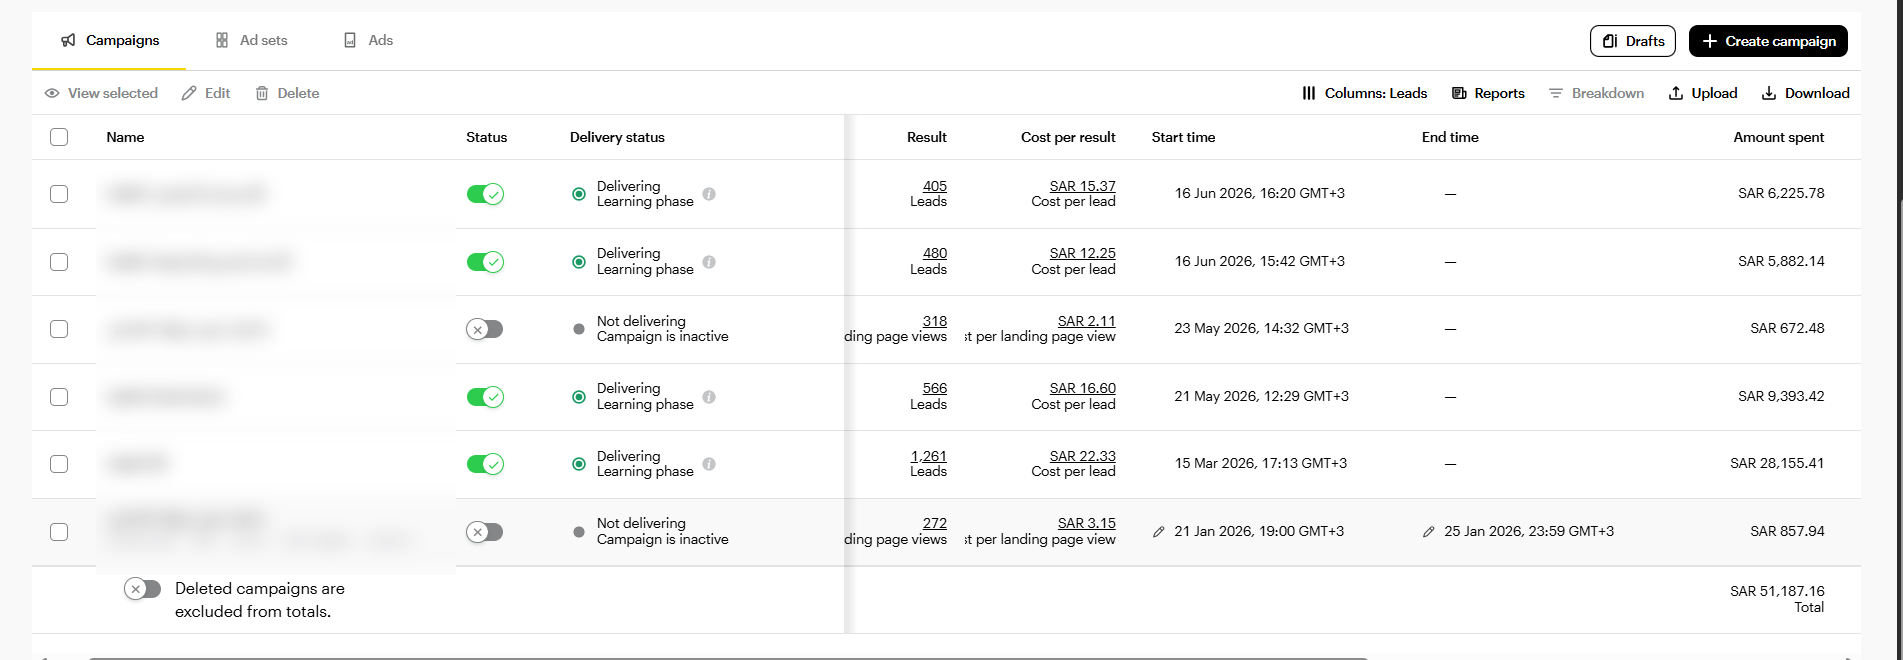
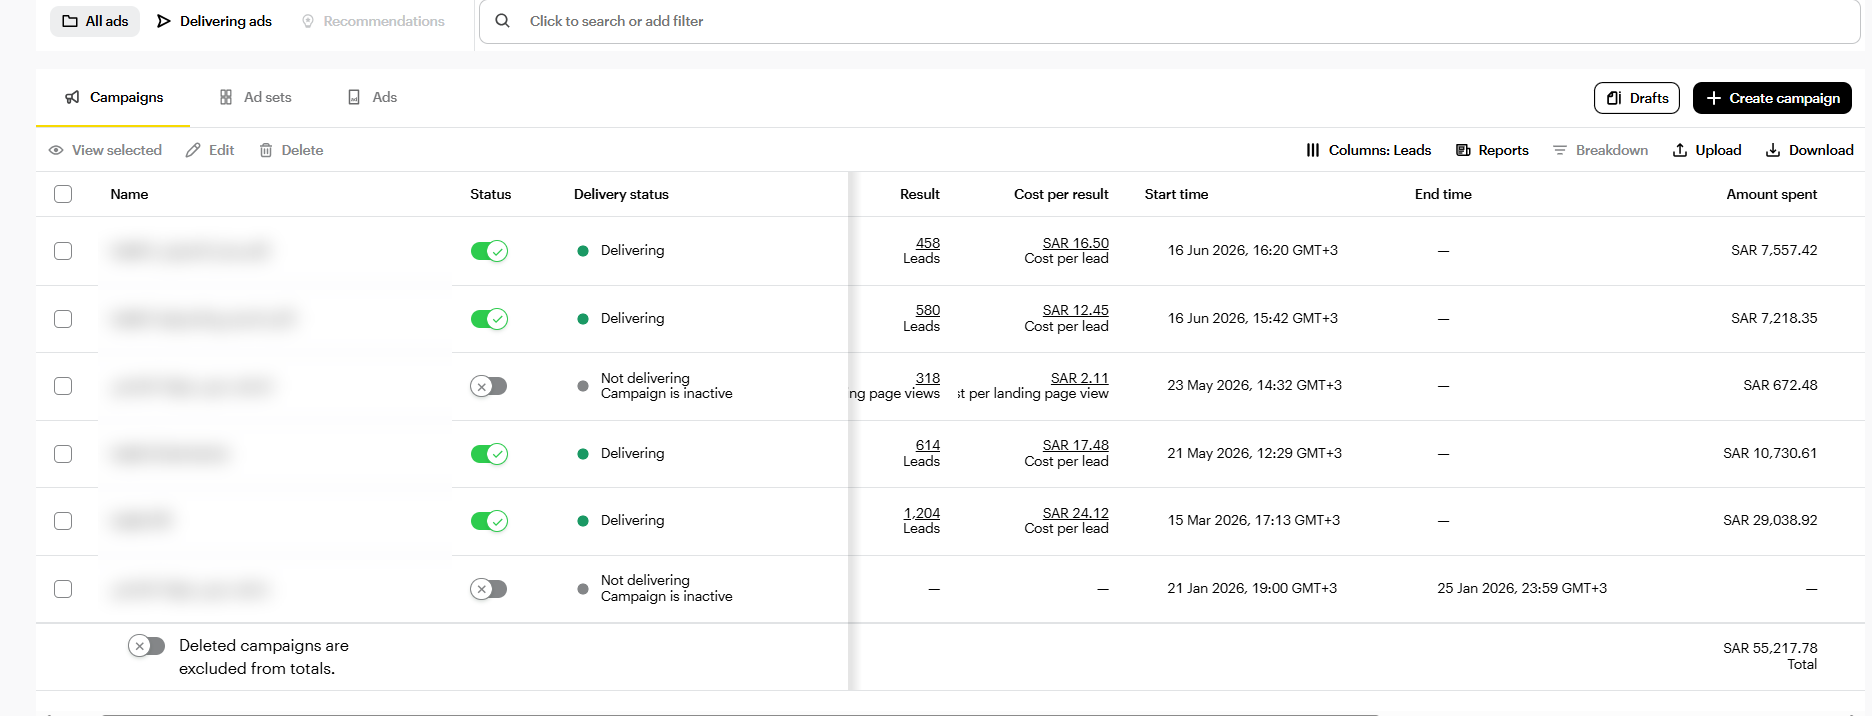
Add files via upload

diff --git a/index.html b/index.html
@@ -6,13 +6,13 @@
 
   <!-- ══════════ SEO — edit title & description here ══════════ -->
   <title>Mohamed Mahmoud — Media Buyer · Performance Marketing, KSA</title>
-  <meta name="description" content="Media buyer specializing in lead generation for the education and training sector in KSA. 25,000+ leads and 500,000+ SAR managed across Meta, Snapchat, TikTok, Google, LinkedIn & X, with 12.1x ROAS on tracked sales (May, June & August 2026).">
+  <meta name="description" content="Media buyer specializing in lead generation for the education and training sector in KSA. 29,000+ leads and 550,000+ SAR managed across Meta, Snapchat, TikTok, Google, LinkedIn & X, with 12.1x ROAS on tracked sales (May, June & August 2026).">
   <link rel="canonical" href="https://mohammedaboelabbass-web.github.io/Mohamed-mahmoud-portfolio/">
 
   <!-- Social sharing preview (WhatsApp / LinkedIn) -->
   <meta property="og:type" content="website">
   <meta property="og:title" content="Mohamed Mahmoud — Media Buyer">
-  <meta property="og:description" content="I don't just run ads — I deliver leads that matter. 25,000+ leads · 500,000+ SAR managed · 6 platforms · 5 clients.">
+  <meta property="og:description" content="I don't just run ads — I deliver leads that matter. 29,000+ leads · 550,000+ SAR managed · 6 platforms · 5 clients.">
   <meta property="og:image" content="https://mohammedaboelabbass-web.github.io/Mohamed-mahmoud-portfolio/img/profile.png">
   <meta property="og:url" content="https://mohammedaboelabbass-web.github.io/Mohamed-mahmoud-portfolio/">
 
@@ -72,8 +72,8 @@
 
       <!-- The four headline numbers -->
       <dl class="statline">
-        <div><dd class="num" data-count>25,000+</dd><dt>Leads delivered</dt></div>
-        <div><dd class="num" data-count>500,000+</dd><dt>SAR managed</dt></div>
+        <div><dd class="num" data-count>29,000+</dd><dt>Leads delivered</dt></div>
+        <div><dd class="num" data-count>550,000+</dd><dt>SAR managed</dt></div>
         <div><dd class="num" data-count>6</dd><dt>Ad platforms</dt></div>
         <div><dd class="num" data-count>5</dd><dt>Clients</dt></div>
       </dl>
@@ -96,7 +96,7 @@
         </div>
         <p class="eyebrow">About</p>
         <h2 class="section-title">Cost-efficient leads at scale, built on <em>real budgets.</em></h2>
-        <p class="about-copy">Media Buyer with hands-on experience across Meta Ads, Snapchat Ads, TikTok Ads and Google Ads, specializing in lead generation for the education and training sector in KSA. I've managed ad budgets exceeding <strong>500,000+ SAR</strong>, generating <strong>25,000+ leads</strong> across multiple clients.</p>
+        <p class="about-copy">Media Buyer with hands-on experience across Meta Ads, Snapchat Ads, TikTok Ads and Google Ads, specializing in lead generation for the education and training sector in KSA. I've managed ad budgets exceeding <strong>550,000+ SAR</strong>, generating <strong>29,000+ leads</strong> across multiple clients.</p>
         <div class="platform-tags">
           <span>Meta Ads</span>
           <span>Snapchat Ads</span>
@@ -112,24 +112,24 @@
           <h3>Leads by platform</h3>
           <span>Apr–Aug 2026 · 5 clients</span>
         </div>
-        <!-- Bar widths = leads ÷ 15,366 (the largest value) -->
+        <!-- Bar widths = leads ÷ 18,244 (the largest value) -->
         <div class="bar-row">
-          <div class="bar-label"><b>Meta Ads</b><span class="num">15,366</span></div>
+          <div class="bar-label"><b>Meta Ads</b><span class="num">18,244</span></div>
           <div class="bar-track"><div class="bar-fill" style="width:100%"></div></div>
         </div>
         <div class="bar-row">
-          <div class="bar-label"><b>Snapchat Ads</b><span class="num">5,326</span></div>
-          <div class="bar-track"><div class="bar-fill" style="width:34.7%"></div></div>
+          <div class="bar-label"><b>Snapchat Ads</b><span class="num">6,142</span></div>
+          <div class="bar-track"><div class="bar-fill" style="width:33.7%"></div></div>
         </div>
         <div class="bar-row">
-          <div class="bar-label"><b>TikTok Ads</b><span class="num">4,836</span></div>
-          <div class="bar-track"><div class="bar-fill" style="width:31.5%"></div></div>
+          <div class="bar-label"><b>TikTok Ads</b><span class="num">5,249</span></div>
+          <div class="bar-track"><div class="bar-fill" style="width:28.8%"></div></div>
         </div>
         <div class="bar-row">
           <div class="bar-label"><b>LinkedIn Ads</b><span class="num">43</span></div>
-          <div class="bar-track"><div class="bar-fill" style="width:0.3%"></div></div>
+          <div class="bar-track"><div class="bar-fill" style="width:0.2%"></div></div>
         </div>
-        <p class="chart-foot">Plus <strong>4,785 clicks</strong> via Google Search Ads at <strong>1.77 SAR</strong> CPC, and <strong>4,716 SAR</strong> tested on X. Platform totals sum to <strong>25,571</strong> leads.</p>
+        <p class="chart-foot">Plus <strong>4,785 clicks</strong> via Google Search Ads at <strong>1.77 SAR</strong> CPC, and <strong>4,716 SAR</strong> tested on X. Platform totals sum to <strong>29,678</strong> leads.</p>
         <div class="reporting">
           <h4>Reporting &amp; systems</h4>
           <p>Built and maintain a live multi-client reporting dashboard that pulls from each client's sheet — tracking spend, leads, blended CPL and monthly lead-target progress across all accounts and platforms in one place.</p>
@@ -167,7 +167,7 @@
       <div>
         <p class="case-no">01 / First client</p>
         <h3>Waqf Programs</h3>
-        <p class="case-sector">Governance · Human resources · Project management · Professional consulting<br><span class="case-period">June–August 2026</span></p>
+        <p class="case-sector">Governance · Human resources · Project management · Professional consulting<br><span class="case-period">May–August 2026</span></p>
         <a class="case-logo" href="https://lms.waqf.org.sa/" target="_blank" rel="noopener" title="Waqf Programs"><img src="img/logo-waqf.png" alt="Waqf Programs logo" loading="lazy"></a>
       </div>
       <div class="case-body">
@@ -178,28 +178,28 @@
           </div>
           <div class="ledger-row">
             <div class="ledger-platform"><span class="ledger-badge">M</span><span>Meta Ads</span></div>
-            <div class="ledger-result"><div class="num">11,544</div><small>Leads generated</small></div>
+            <div class="ledger-result"><div class="num">14,422</div><small>Leads generated</small></div>
             <div class="ledger-stats">
-              <div><div class="num">13.19 SAR</div><small>Blended CPL</small></div>
-              <div><div class="num">152,310 SAR</div><small>Spend</small></div>
+              <div><div class="num">12.75 SAR</div><small>Blended CPL</small></div>
+              <div><div class="num">183,904 SAR</div><small>Spend</small></div>
             </div>
             <p class="ledger-note">Across governance, human resources, project management and consulting tracks.</p>
           </div>
           <div class="ledger-row">
             <div class="ledger-platform"><span class="ledger-badge">S</span><span>Snapchat Ads</span></div>
-            <div class="ledger-result"><div class="num">2,040</div><small>Leads</small></div>
+            <div class="ledger-result"><div class="num">2,856</div><small>Leads</small></div>
             <div class="ledger-stats">
-              <div><div class="num">20.82 SAR</div><small>Blended CPL</small></div>
-              <div><div class="num">42,482 SAR</div><small>Spend</small></div>
+              <div><div class="num">19.33 SAR</div><small>Blended CPL</small></div>
+              <div><div class="num">55,218 SAR</div><small>Spend</small></div>
             </div>
             <p class="ledger-note">Lead-gen for education &amp; training programs targeting professionals in KSA.</p>
           </div>
           <div class="ledger-row">
             <div class="ledger-platform"><span class="ledger-badge">T</span><span>TikTok Ads</span></div>
-            <div class="ledger-result"><div class="num">2,556</div><small>Leads</small></div>
+            <div class="ledger-result"><div class="num">2,969</div><small>Leads</small></div>
             <div class="ledger-stats">
-              <div><div class="num">16.24 SAR</div><small>Blended CPL</small></div>
-              <div><div class="num">41,520 SAR</div><small>Spend</small></div>
+              <div><div class="num">15.75 SAR</div><small>Blended CPL</small></div>
+              <div><div class="num">46,756 SAR</div><small>Spend</small></div>
             </div>
             <p class="ledger-note">Governance, HR and project management programs in KSA.</p>
           </div>
@@ -211,21 +211,21 @@
               <div><div class="num">194,978 SAR</div><small>Ad spend</small></div>
               <div><div class="num">May, Jun &amp; Aug 2026</div><small>Period</small></div>
             </div>
-            <p class="ledger-note">Generated 2,367,955 SAR in sales across Waqf's programs in May, June and August 2026 — turning every 1 SAR spent into 12+ SAR in revenue. ROAS uses those three months' ad spend of 194,978 SAR. July is left out because its sales haven't been recorded yet; the platform table above covers June–August.</p>
+            <p class="ledger-note">Generated 2,367,955 SAR in sales across Waqf's programs in May, June and August 2026 — turning every 1 SAR spent into 12+ SAR in revenue. ROAS uses those three months' ad spend of 194,978 SAR. July is left out because its sales haven't been recorded yet; the platform table above covers May–August.</p>
           </div>
         </div>
 
-        <!-- Featured result — a SUBSET of the Meta 11,748 above, not extra leads -->
+        <!-- Featured result — best Meta campaign, a SUBSET of the 14,422 Meta leads above -->
         <div class="feature feature-subset">
-          <p class="subset-label">Best-performing Meta campaign · Mar–Aug 2026</p>
+          <p class="subset-label">Best-performing Meta campaign · May–Aug 2026</p>
           <div class="feature-head">
             <div>
-              <p class="feature-tag">Best CPL · 8.89 SAR ($2.37)</p>
-              <p class="feature-title">2,694 leads came from the professional project management track — the lowest CPL of any Waqf campaign.</p>
+              <p class="feature-tag">Best CPL · 10.24 SAR ($2.73)</p>
+              <p class="feature-title">3,500 leads came from the professional project management track — the lowest CPL of any Waqf campaign.</p>
             </div>
             <div class="feature-nums">
-              <div><div class="num">2,694</div><small>Leads</small></div>
-              <div><div class="num">8.89 SAR</div><small>Best CPL</small></div>
+              <div><div class="num">3,500</div><small>Leads</small></div>
+              <div><div class="num">10.24 SAR</div><small>Best CPL</small></div>
             </div>
           </div>
           <p>Using higher-intent lead forms targeting professionals across KSA — the strongest-performing campaign within this client's Meta account.</p>
@@ -492,8 +492,8 @@
         <p class="eyebrow">Results speak</p>
         <h2>Every number here is a real campaign, a real budget, and <em>a real result.</em></h2>
         <div class="big-stats">
-          <div><div class="num" data-count>25,000+</div><small>Leads delivered</small></div>
-          <div><div class="num" data-count>500,000+</div><small>SAR managed</small></div>
+          <div><div class="num" data-count>29,000+</div><small>Leads delivered</small></div>
+          <div><div class="num" data-count>550,000+</div><small>SAR managed</small></div>
           <div><div class="num" data-count>6</div><small>Ad platforms</small></div>
           <div><div class="num" data-count>5</div><small>Clients</small></div>
         </div>
